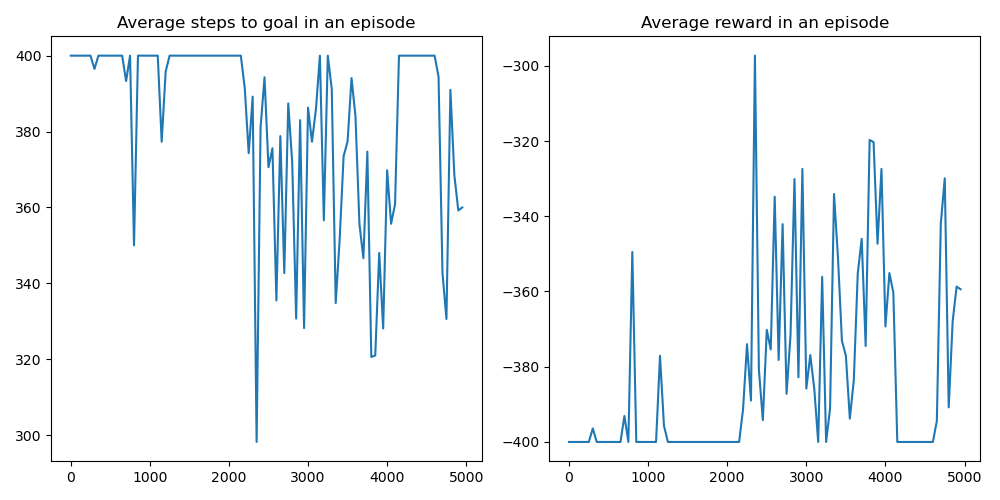
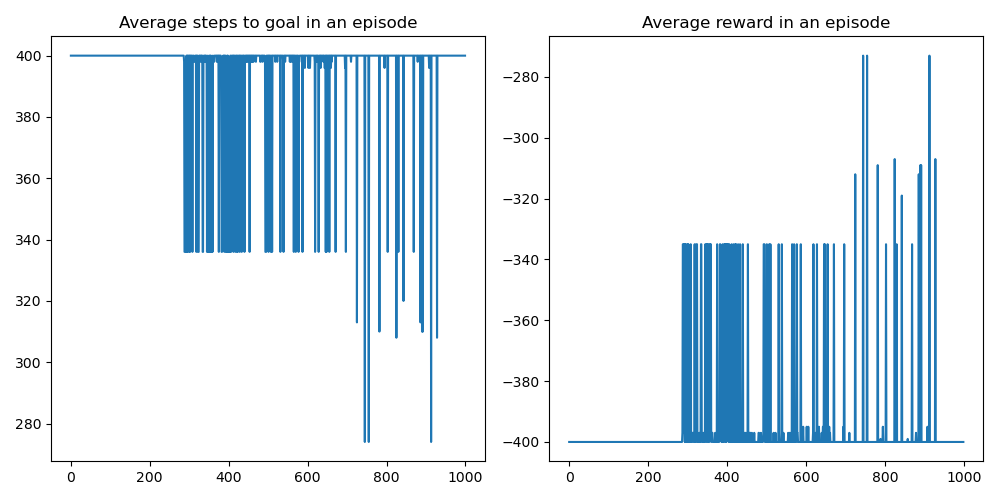
sync everything

diff --git a/Gym/qlearning_acrobat.py b/Gym/qlearning_acrobat.py
@@ -3,12 +3,13 @@ from tqdm import tqdm
 import gymnasium as gym
 import numpy as np
 from agent import QLearning
+import random
 
 
 def rmse(predictions, targets):
     return np.sqrt(np.mean((predictions-targets)**2))
 
-def evaluation(env, q_learner, step_bound = 400, num_itr = 10):
+def evaluation(env, q_learner, step_bound = 400, num_itr = 1):
 	"""
 	Semi-greedy evaluation for discrete state and discrete action spaces and an episodic environment.
 
@@ -35,7 +36,7 @@ def evaluation(env, q_learner, step_bound = 400, num_itr = 10):
 		done = False
 
 		while((not done) and (steps < step_bound)):
-			action = q_learner.get_action_egreedy(state)
+			action = q_learner.get_action(state)
 			next_state, reward, terminated, truncated, info = env.step(action)
 			state = next_state
 
@@ -56,30 +57,41 @@ def evaluation(env, q_learner, step_bound = 400, num_itr = 10):
 
 env = gym.make('Acrobot-v1')
 grids_per_dim = 2 # 10 points per state dimension
-lr = 0.5
+# # baseline 
+# lr = 1e-3
+# epsilon = 0.05
+
+lr = 1e-5
 epsilon = 0.05
-n_episodes = 5000
+n_episodes = 1000
 discount = 0.99
-
-
-
+seed = 3
 ########################################################################
 
 eval_step = []
 eval_reward = []
 eval_error = []
 
+random.seed(seed)
+np.random.seed(seed)
+
 name = env.unwrapped.spec.id
-env.action_space.seed(123) # set seed for reproducibility
 
 q_learner = QLearning(env, lr=lr, discount=discount, epsilon=epsilon, grids_per_dim=grids_per_dim)
 
 for i in tqdm(range(n_episodes)):  
-	state, _ = env.reset()
+	state, _ = env.reset(seed=seed)
 	done = False
 	while not done:
 		action = q_learner.get_action_egreedy(state)
 		next_state, reward, terminated, truncated, info = env.step(action)
+
+		# # TODO: override the reward as the distance
+		# cos1 = state[0]
+		# sin1 = state[1]
+		# cos2 = state[2]
+		# sin2 = state[3]
+		# reward = -cos1 - (cos1*cos2 - sin1*sin2)
 
         # update the agent
 		q_learner.update(state, action, reward, next_state)
@@ -89,20 +101,22 @@ for i in tqdm(range(n_episodes)):
 		state = next_state
 
 	# evaluate the agent using the Q-table every 50 steps
-	if (i+1) % 50 == 0:
-		if name == 'MountainCar-v0':
-			avg_step, avg_reward = evaluation(env, q_learner, step_bound=1000)
-		else:
-			avg_step, avg_reward = evaluation(env, q_learner)
-		print(f'Episode {i+1}, Average steps to goal: {avg_step}, Average reward: {avg_reward}')
-		eval_step.append(avg_step)
-		eval_reward.append(avg_reward)
+	if name == 'MountainCar-v0':
+		avg_step, avg_reward = evaluation(env, q_learner, step_bound=1000)
+	else:
+		avg_step, avg_reward = evaluation(env, q_learner)
+	eval_step.append(avg_step)
+	eval_reward.append(avg_reward)
+
+	if i % 50 == 0:
+		print(f'Episode {i}, Average steps to goal: {avg_step}, Average reward: {avg_reward}')
+
 
 f1, axes = plt.subplots(1, 2, figsize=(10, 5))
-axes[0].plot(range(0, n_episodes, 50), eval_step)
+axes[0].plot(range(0, n_episodes), eval_step)
 axes[0].set_title('Average steps to goal in an episode')
 
-axes[1].plot(range(0, n_episodes, 50), eval_reward)
+axes[1].plot(range(0, n_episodes), eval_reward)
 axes[1].set_title('Average reward in an episode')
 
 plt.tight_layout()

diff --git a/Maze/qlearning_maze.py b/Maze/qlearning_maze.py
@@ -1,7 +1,8 @@
-from Maze.plots.evaluation import *
+from evaluation import *
 import matplotlib.pyplot as plt
-from Maze.plots.maze import *
+from maze import *
 from tqdm import tqdm
+import numpy as np
 
 def rmse(predictions, targets):
     return np.sqrt(np.mean((predictions-targets)**2))

diff --git a/Gym/agent.py b/Gym/agent.py
@@ -39,6 +39,7 @@ class QLearning:
         shape = tuple([self.grids_per_dim] * self.dim_obs)
         idx = np.ravel_multi_index(state_digit, shape)
         return idx
+    
 
 
 class REINFORCE:
